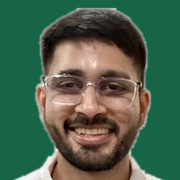
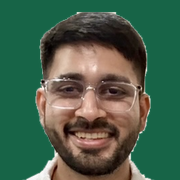
Stop blurring the photo into its own outline; fill the backdrop instead
The share card's portrait had a grey halo tracing the hair and shoulders, and
the backdrop behind the shirt was a smear rather than a flat field. Both came
from the same place: decontaminate() composited a Gaussian blur of the photo
over its own silhouette to hide white fringing. Where that band spans dark
hair and a white wall, the blur of the two is grey, and painting it back in
draws a halo. Measured, it was altering 1.8% of the frame by more than six
levels, all of it on the outline.

The backdrop was a second, separate fault. background_alpha() only treats
near-white as background, but the studio lighting falls off down the frame, so
from row 300 down the wall sits around 200 and was being kept as subject: zero
percent of the bottom band was ever matted out. The wall and its contact
shadow were composited onto the panel as though they were him.

Tracing a better outline is not the fix. A white shirt against a white wall
has no edge to find - three attempts (tolerance flood, per-row edge runs,
vertically smoothed outline tracing) leaked into the shirt or came back with a
comb for a shoulder, and the honest reading is that the information is not in
the pixels.

So the card no longer cuts anything out. fill_backdrop() reads the wall colour
row by row, which is what the falloff requires, and pulls each pixel toward
the panel colour by a Gaussian on how close it already is to that row's wall.
The subject's real edges survive because nothing replaces them. The panel goes
[…]

Changed region(s): [[0.0833, 0.0278, 0.9167, 1.0], [0.6667, 0.1667, 0.6944, 0.1944]]

diff --git a/index.html b/index.html
@@ -9,9 +9,10 @@
   <meta property="og:description" content="Data platforms that give teams time back. Production results in pipeline performance, release automation, and reusable tooling.">
   <meta property="og:type" content="website">
   <meta property="og:url" content="https://narendranathe.github.io">
-  <!-- Share card: bump ?v= whenever static/og-image.jpg is regenerated. LinkedIn
-       and Slack cache by URL, so the old card outlives the new file otherwise. -->
-  <meta property="og:image" content="https://narendranathe.github.io/static/og-image.jpg?v=2026-09-22">
+  <!-- Share card: ?v= is the file's own content hash, so regenerating the card
+       moves it automatically. LinkedIn and Slack cache by URL, and a stale one
+       means the old card outlives the new file. -->
+  <meta property="og:image" content="https://narendranathe.github.io/static/og-image.jpg?v=d27bb78a">
   <meta property="og:image:width" content="1200">
   <meta property="og:image:height" content="630">
   <meta property="og:image:type" content="image/jpeg">
@@ -28,7 +29,7 @@
   <link rel="icon" type="image/png" sizes="32x32" href="/static/favicon-32.png?v=2026-09-22">
   <link rel="icon" type="image/png" sizes="16x16" href="/static/favicon-16.png?v=2026-09-22">
   <link rel="icon" type="image/x-icon" sizes="any" href="/static/favicon.ico?v=2026-09-22">
-  <link rel="apple-touch-icon" sizes="180x180" href="/static/apple-touch-icon.png?v=2026-09-22">
+  <link rel="apple-touch-icon" sizes="180x180" href="/static/apple-touch-icon.png?v=4a256be8">
   <link rel="manifest" href="/static/site.webmanifest?v=2026-09-22">
   <meta name="theme-color" content="#176447">
   <meta name="msapplication-TileColor" content="#176447">

diff --git a/content/posts/repo-context-hooks-supply-chain.html b/content/posts/repo-context-hooks-supply-chain.html
@@ -10,12 +10,12 @@
   <meta property="og:description" content="Sigstore + OIDC + CodeQL + property-tested telemetry + a 5-critic parallel-agent code review. The defender-side playbook for shipping a Claude Code plugin in 2026.">
   <meta property="og:type" content="article">
   <meta property="og:url" content="https://narendranathe.github.io/content/posts/repo-context-hooks-supply-chain.html">
-  <meta property="og:image" content="https://narendranathe.github.io/static/og-image.jpg?v=2026-09-22">
+  <meta property="og:image" content="https://narendranathe.github.io/static/og-image.jpg?v=d27bb78a">
   <meta name="twitter:card" content="summary_large_image">
   <link rel="canonical" href="https://narendranathe.github.io/content/posts/repo-context-hooks-supply-chain.html">
 
   <link rel="icon" type="image/png" sizes="32x32" href="/static/favicon-32.png?v=2026-09-22">
-  <link rel="apple-touch-icon" sizes="180x180" href="/static/apple-touch-icon.png?v=2026-09-22">
+  <link rel="apple-touch-icon" sizes="180x180" href="/static/apple-touch-icon.png?v=4a256be8">
   <meta name="theme-color" content="#176447">
 
   <link rel="preconnect" href="https://fonts.googleapis.com">

diff --git a/scripts/portrait_matte.py b/scripts/portrait_matte.py
@@ -9,17 +9,27 @@ of them because both read the same photo and put it on a colored ground, and
 a matte that drifts between the two shows up as two slightly different faces
 across a person's own assets.
 
-The matte assumes what a studio headshot gives you: a near-white, near-neutral
-background reaching the left, right and top borders of the frame. It is not a
-general-purpose matter and will not cope with a busy or dark backdrop.
+Two strategies, picked by how far the destination is from the backdrop:
+
+- `fill_backdrop` repaints the wall to a flat colour and never computes a
+  silhouette. Use it for grounds near the backdrop's own, such as the share
+  card's cream panel.
+- `background_alpha` (+ `reconstruct_crown`) cuts the subject out, for grounds
+  far from it, such as the icons' dark green.
+
+Both assume what a studio headshot gives you: a near-white, near-neutral
+background reaching the left, right and top borders of the frame. Neither is a
+general-purpose matter and neither will cope with a busy or dark backdrop.
 """
 from __future__ import annotations
 
+import math
 import shutil
 from collections import deque
 from pathlib import Path
+from statistics import median
 
-from PIL import Image, ImageChops, ImageFilter
+from PIL import Image, ImageFilter
 
 HEADSHOT = "headshot-2026.jpg"
 MASTER_LONG_EDGE = 1200
@@ -138,18 +148,89 @@ def background_alpha(im: Image.Image) -> Image.Image:
             (0, y),
         )
 
-    # Erode by about two thirds of a pixel to bite off the white rim the
-    # threshold leaves behind, then feather.
+    # Erode most of a pixel to bite off the white rim the threshold leaves
+    # behind, then feather just enough to antialias. This used to erode less
+    # and hand the rest to a decontamination pass that blurred the photo into
+    # its own outline; that pass is gone, because what it actually produced was
+    # a grey halo around the hair, and a tighter edge here is what it was
+    # standing in for.
     eroded = merged.filter(ImageFilter.MinFilter(3))
-    return Image.blend(eroded, merged, 0.35).filter(ImageFilter.GaussianBlur(0.7))
+    return Image.blend(eroded, merged, 0.15).filter(ImageFilter.GaussianBlur(0.5))
 
 
-def decontaminate(im: Image.Image, alpha: Image.Image) -> Image.Image:
-    """Pull edge pixels toward local subject color so no white rim survives."""
-    interior = im.filter(ImageFilter.GaussianBlur(3))
-    edge = ImageChops.difference(alpha, alpha.filter(ImageFilter.MinFilter(5)))
-    edge = edge.filter(ImageFilter.GaussianBlur(1.0)).point(lambda v: min(255, int(v * 1.6)))
-    return Image.composite(interior, im, edge)
+def fill_backdrop(
+    im: Image.Image,
+    target: tuple[int, int, int],
+    sigma: float = 10.0,
+    margin: int = 6,
+    smooth: int = 15,
+) -> Image.Image:
+    """Repaint the studio backdrop to a flat colour, leaving the subject alone.
+
+    This is the right tool when the target colour is near the backdrop's own -
+    a cream panel under a white studio wall - and it is deliberately not a
+    cutout. A white shirt photographed against a white backdrop has no edge to
+    find: every attempt to trace one lands somewhere different on each row and
+    shows up as a ragged shoulder, and blurring the seam to hide that paints a
+    grey halo instead. So nothing here looks for a silhouette.
+
+    Each row states the backdrop colour it actually has, because the lighting
+    falls off toward the bottom of the frame and one white point cannot
+    describe the whole wall. Every pixel is then pulled toward the target in
+    proportion to how close it already is to that row's backdrop. The weight is
+    a Gaussian on luminance rather than a ramp, and that is what keeps the
+    shirt out of it: in the shadowed rows lit fabric sits well above the
+    backdrop, so it barely moves, while a ramp would drag it along.
+
+    `sigma` is the width of that weight. Measured on this photo the backdrop
+    lands exactly on target at every value tried, so the only thing a wider
+    one buys is disturbance: at 18 the shirt moved 18.6 levels and closed to
+    14.6 of the panel's luminance, at 10 it moved 12.5 and held 20.5. Keeping
+    the shirt away from the panel is what keeps the shoulder line readable, so
+    this stays narrow.
+
+    Do not point this at a ground far from the backdrop. Aimed at the dark
+    green the icons use, the shift is large enough that the weight's tail
+    reaches the shirt and turns it green in patches; those need `background_alpha`
+    and a real composite.
+    """
+    w, h = im.size
+    px = im.convert("RGB").load()
+
+    def lum(c: tuple[int, int, int]) -> float:
+        return 0.299 * c[0] + 0.587 * c[1] + 0.114 * c[2]
+
+    # Per-row backdrop, read from the margins the subject never reaches, then
+    # smoothed down the frame so noise cannot band the fill.
+    base = []
+    for y in range(h):
+        row = [px[x, y] for x in range(margin)] + [px[x, y] for x in range(w - margin, w)]
+        row.sort(key=lum)
+        base.append(row[len(row) // 2])
+    half = smooth // 2
+    base = [
+        tuple(
+            median([base[j][i] for j in range(max(0, y - half), min(h, y + half + 1))])
+            for i in range(3)
+        )
+        for y in range(h)
+    ]
+
+    out = Image.new("RGB", (w, h))
+    op = out.load()
+    for y in range(h):
+        b = base[y]
+        bl = lum(b)
+        sr, sg, sb = (target[i] - b[i] for i in range(3))
+        for x in range(w):
+            c = px[x, y]
+            t = math.exp(-(((lum(c) - bl) / sigma) ** 2))
+            op[x, y] = (
+                max(0, min(255, int(round(c[0] + sr * t)))),
+                max(0, min(255, int(round(c[1] + sg * t)))),
+                max(0, min(255, int(round(c[2] + sb * t)))),
+            )
+    return out
 
 
 def reconstruct_crown(

diff --git a/scripts/snap-favicon.py b/scripts/snap-favicon.py
@@ -46,12 +46,7 @@ from PIL import Image, ImageDraw, ImageFont
 
 # Same directory as this script, so a plain import resolves when it is run
 # as `python scripts/snap-favicon.py`.
-from portrait_matte import (
-    background_alpha,
-    decontaminate,
-    find_headshot,
-    reconstruct_crown,
-)
+from portrait_matte import background_alpha, find_headshot, reconstruct_crown
 
 # ------- Constants -------
 REPO_ROOT = Path(__file__).resolve().parent.parent
@@ -75,10 +70,11 @@ MASKABLE_GROUND = "#1F3D2B"  # .section-dark background, styles.css
 
 # Crop policy. A Haar box bounds the face - brow to chin - not the head, so
 # padding it by a small factor lands the top edge partway up the hair and
-# chops it flat. These two numbers frame the head instead: how far above the
-# box the crown sits, and how wide a square to take around it.
-HEAD_ABOVE_FACE = 0.30  # crown height as a fraction of face-box height
+# chops it flat. The crop is framed on the head instead: the matte already
+# knows exactly which row the crown is on, so the box is placed off that
+# measurement rather than off a guess at how much skull sits above the brow.
 HEAD_CROP_RATIO = 1.46  # square side as a multiple of face-box height
+HEAD_TOP_MARGIN = 0.07  # ground above the crown, as a fraction of the crop
 
 # Output sizes
 TAB_SIZES = (16, 32, 48)
@@ -105,26 +101,32 @@ def detect_face_bbox(img_path: Path) -> tuple[int, int, int, int]:
     return tuple(int(v) for v in faces[0])
 
 
-def head_crop_box(
-    size: tuple[int, int], face: tuple[int, int, int, int], top_pad: int = 0
-) -> tuple[int, int, int, int]:
-    """Square crop box holding the whole head, not just the face box.
+def crown_row(alpha: Image.Image) -> int:
+    """First row carrying subject, i.e. the top of the head."""
+    ap = alpha.load()
+    for y in range(alpha.height):
+        if any(ap[x, y] > 128 for x in range(0, alpha.width, 3)):
+            return y
+    return 0
 
-    Anchored to the estimated crown rather than centred on the face box: a
-    centred square of any size that reaches the chin also reaches above the
-    crown, and a square small enough to avoid that cuts the hair off flat.
-    Anchoring at the top and letting the square run down into the collar puts
-    the slack where slack looks deliberate.
+
+def head_crop_box(
+    size: tuple[int, int], face: tuple[int, int, int, int], top: int
+) -> tuple[int, int, int, int]:
+    """Square crop box holding the whole head, anchored at a measured top.
+
+    Anchored at the top and allowed to run down into the collar: a square
+    centred on the face box that reaches the chin also reaches above the
+    crown, and one small enough to avoid that cuts the hair off flat. Putting
+    the slack at the bottom is putting it where slack looks deliberate.
 
     Returns a box rather than an image so the photo and its alpha can be cut
     with exactly the same numbers.
     """
     iw, ih = size
-    x, y, w, h = face
+    x, _, w, h = face
     cx = x + w // 2
     side = int(h * HEAD_CROP_RATIO)
-    # top_pad is the crown the matte rebuilt above the original frame.
-    top = max(0, int(y + top_pad - h * HEAD_ABOVE_FACE))
     left = min(max(0, cx - side // 2), max(0, iw - side))
     # If the source cannot give a square that big, take the largest it can.
     side = min(side, iw - left, ih - top)
@@ -236,17 +238,35 @@ def main() -> None:
     portrait = Image.open(portrait_src).convert("RGB")
     alpha = background_alpha(portrait)
     padded, alpha = reconstruct_crown(portrait, alpha)
-    top_pad = padded.height - portrait.height
-    clean = decontaminate(padded, alpha)
+    # The photo's own pixels, composited through the alpha. There used to be a
+    # decontamination pass here that blurred the image into its own outline to
+    # kill white fringing; it left a grey halo round the hair that was worse
+    # than the fringe. The alpha erodes a little harder instead.
+    clean = padded
 
-    box = head_crop_box(padded.size, bbox, top_pad=top_pad)
-    print(f"face box {bbox} -> head crop {box} (crown pad {top_pad}px)")
+    # Put ground above the crown. Without it the head sits flush against the
+    # icon's top edge and reads as a crop that missed, and this master happens
+    # to be framed with the crown almost exactly on row 0, so there is nothing
+    # above it to borrow.
+    side = int(bbox[3] * HEAD_CROP_RATIO)
+    margin = int(side * HEAD_TOP_MARGIN)
+    crown = crown_row(alpha)
+    lift = max(0, margin - crown)
+    if lift:
+        grown = Image.new("RGB", (clean.width, clean.height + lift), (255, 255, 255))
+        grown.paste(clean, (0, lift))
+        grown_a = Image.new("L", (alpha.width, alpha.height + lift), 0)
+        grown_a.paste(alpha, (0, lift))
+        clean, alpha = grown, grown_a
+
+    box = head_crop_box(clean.size, bbox, top=crown + lift - margin)
+    print(f"face box {bbox} -> head crop {box} (crown row {crown + lift}, margin {margin}px)")
     face_crop_1024 = clean.crop(box).resize((1024, 1024), Image.LANCZOS)
     face_alpha_1024 = alpha.crop(box).resize((1024, 1024), Image.LANCZOS)
 
     # Same columns, run to the bottom of the frame: the maskable icon needs
     # shoulders it can bleed off the canvas edge.
-    tall = (box[0], box[1], box[2], padded.height)
+    tall = (box[0], box[1], box[2], clean.height)
     tall_rgb, tall_alpha = clean.crop(tall), alpha.crop(tall)
 
     # 2. Monogram favicons (tab) - 16, 32, 48 PNG

diff --git a/scripts/snap-og-card.py b/scripts/snap-og-card.py
@@ -15,8 +15,9 @@ a layout.
 This script builds the card as a layout instead: a deep green type block
 carrying the same hierarchy the hero section uses (mono eyebrow in the accent,
 Playfair tagline) and a full-bleed photo panel on the right. The subject is
-matted off the studio white so the panel background can be the site's cream
-rather than a hard white rectangle butted against the green.
+set on the site's cream rather than a hard white rectangle butted against
+the green: its studio backdrop is repainted to the panel colour, so the photo
+has no edge against the panel at all.
 
 Inputs
 ------
@@ -56,7 +57,7 @@ from PIL import Image, ImageDraw, ImageFilter, ImageFont
 # as `python scripts/snap-og-card.py`.
 from portrait_matte import (
     background_alpha,
-    decontaminate,
+    fill_backdrop,
     find_headshot,
     reconstruct_crown,
     write_master,
@@ -81,8 +82,10 @@ CREAM_SOFT = (201, 194, 180)  # #C9C2B4  secondary
 MUTED = (176, 169, 151)  # #B0A997  tertiary
 ACCENT = (99, 185, 149)  # #63B995  accent green
 WARM = (217, 160, 91)  # #D9A05B  warm accent
-PANEL_TOP = (244, 241, 234)  # photo panel gradient, top
-PANEL_BOT = (228, 223, 211)  # photo panel gradient, bottom
+# Flat, not a gradient. The portrait's own backdrop is repainted to exactly
+# this value, so the photo has no edge against the panel at all; a gradient
+# would give it one, and put the seam back that the repaint exists to remove.
+PANEL = (243, 240, 233)
 
 # ------- Geometry -------
 CARD = (1200, 630)
@@ -190,20 +193,22 @@ def wrap(d: ImageDraw.ImageDraw, text: str, f: ImageFont.FreeTypeFont, width: in
 
 # ------- Panels -------
 def photo_panel(src: Image.Image, size: tuple[int, int]) -> Image.Image:
-    """Subject matted onto a warm gradient panel, sized to leave air around it."""
-    pw, ph = size
-    panel = Image.new("RGB", (pw, ph))
-    pd = ImageDraw.Draw(panel)
-    for y in range(ph):
-        t = y / max(1, ph - 1)
-        pd.line(
-            [(0, y), (pw, y)],
-            fill=tuple(int(PANEL_TOP[i] + (PANEL_BOT[i] - PANEL_TOP[i]) * t) for i in range(3)),
-        )
+    """Portrait on a flat panel, its studio backdrop repainted to match.
 
+    No cutout. The panel colour is close enough to the studio wall that the
+    wall can simply be repainted to it, which leaves the subject's real edges
+    intact - hair, collar, shoulder - instead of substituting a traced outline
+    for them. See fill_backdrop() for why tracing one is a losing game on a
+    white shirt against a white wall.
+    """
+    pw, ph = size
+    panel = Image.new("RGB", (pw, ph), PANEL)
+
+    # The alpha is still needed, but only to repair the clipped crown and to
+    # measure where the head starts; it never composites anything.
     alpha = background_alpha(src)
     rgb, alpha = reconstruct_crown(src.convert("RGB"), alpha)
-    clean = decontaminate(rgb, alpha)
+    filled = fill_backdrop(rgb, PANEL)
 
     # Scale on the subject's own extent, not the master's frame: the master
     # carries whatever padding the photographer left, and the composition is
@@ -213,15 +218,16 @@ def photo_panel(src: Image.Image, size: tuple[int, int]) -> Image.Image:
     top = rows[0] if rows else 0
     scale = SUBJECT_H / (alpha.height - top)
 
-    tw, th = (int(round(v * scale)) for v in (rgb.width, rgb.height))
-    clean = clean.resize((tw, th), Image.LANCZOS)
-    alpha = alpha.resize((tw, th), Image.LANCZOS)
-    # Upscaling a 358px master softens it; put the edge acuity back.
-    clean = clean.filter(ImageFilter.UnsharpMask(radius=1.6, percent=62, threshold=3))
+    tw, th = (int(round(v * scale)) for v in (filled.width, filled.height))
+    filled = filled.resize((tw, th), Image.LANCZOS)
+    # A light touch only. The 358px master softens when it is scaled up, but
+    # the subject now meets a flat field of exactly its own backdrop colour,
+    # and a heavier radius rings visibly along that edge.
+    filled = filled.filter(ImageFilter.UnsharpMask(radius=1.2, percent=42, threshold=3))
 
     x = (pw - tw) // 2
     y = SUBJECT_TOP - int(round(top * scale))
-    panel.paste(clean, (x, y), alpha)
+    panel.paste(filled, (x, y))
     print(f"  portrait: {tw}x{th} at ({x},{y}) in a {pw}x{ph} panel")
     return panel
 
